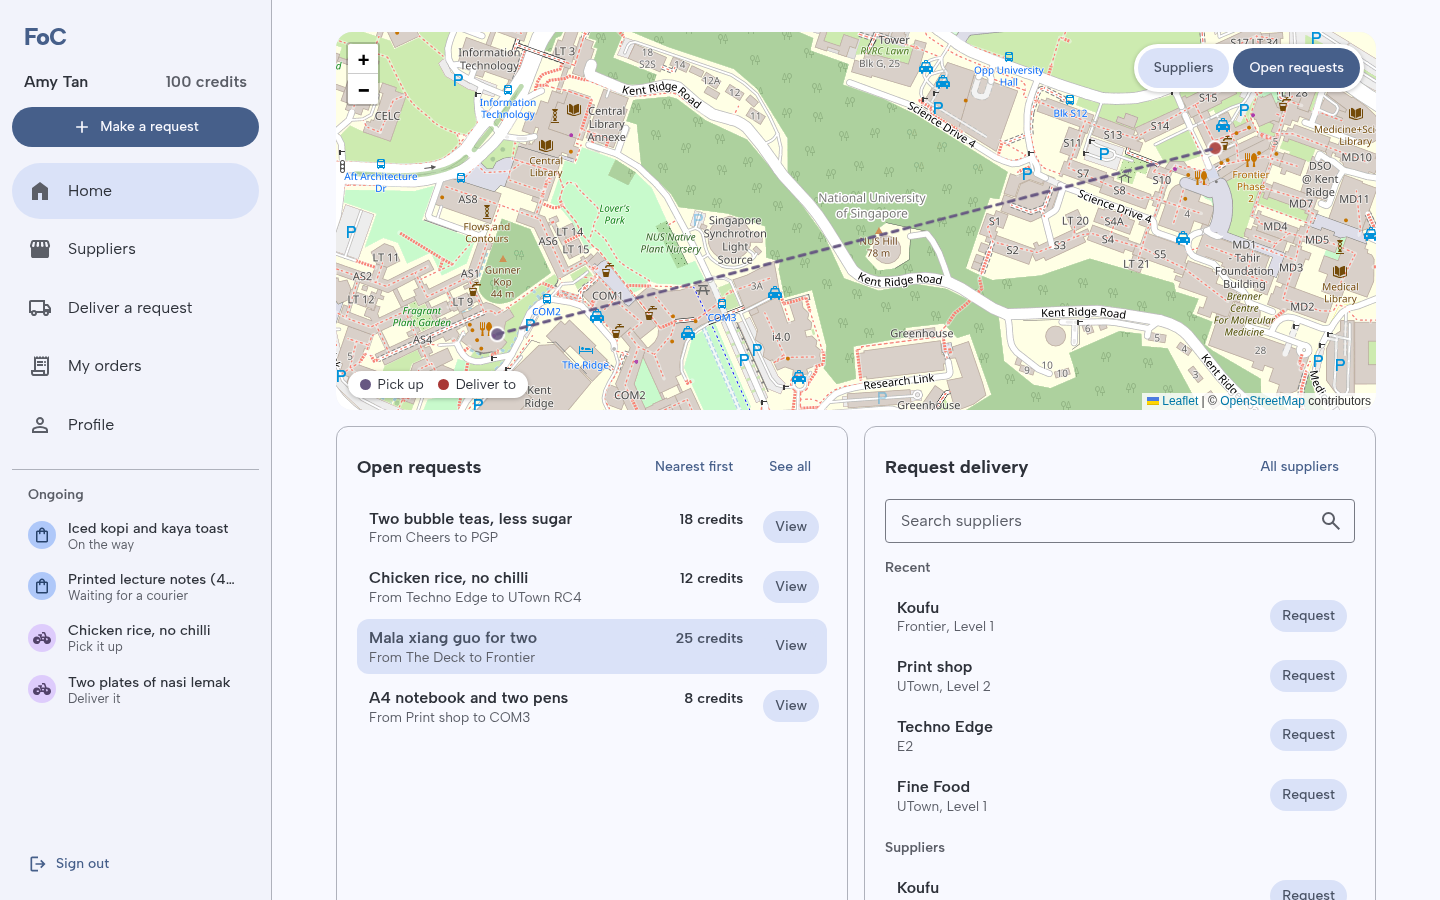
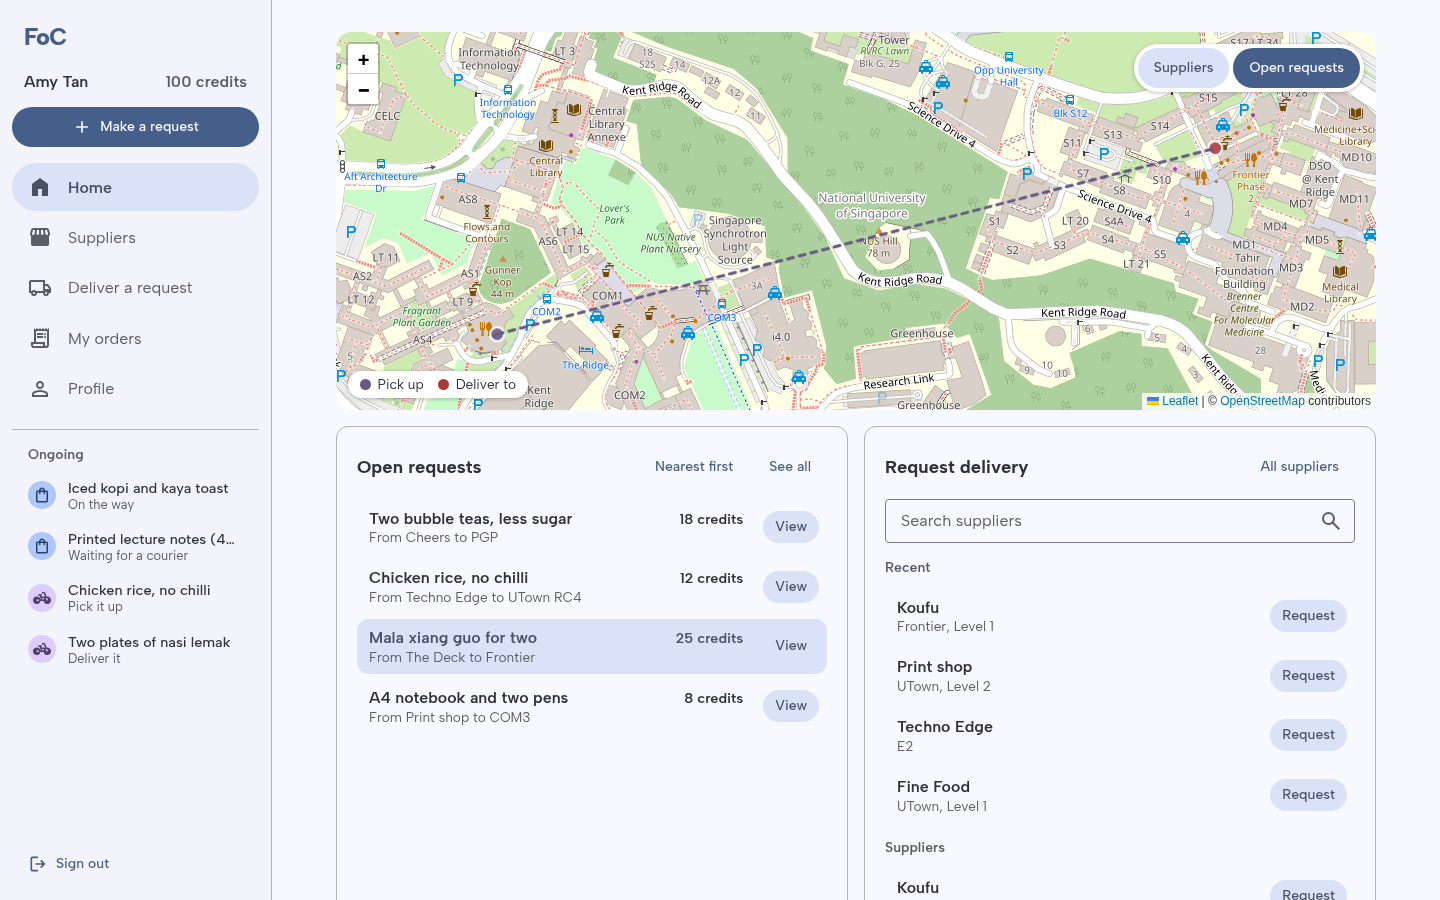
docs: refresh PR 241 screenshots and add real-stack captures

diff --git a/pr-241/README.md b/pr-241/README.md
@@ -1,0 +1,16 @@
+# PR #241 screenshots
+
+Refreshed on 4 November 2026.
+
+- `before-*`: baseline checkout `422bb11`, mocked Connect responses.
+- `after-*`: wireframe worktree based on `c18c582`, with the local onboarding,
+  login wordmark, drawer focus and proof-preservation changes. These local
+  implementation changes had not been pushed to the PR branch at capture time.
+- Before/after comparisons use the same mocked order and supplier fixtures.
+  Map tiles come only from an existing local cache; unavailable tiles are blocked.
+- `real-*`: actual Compose services, seeded development accounts/suppliers,
+  Mailpit and Floci. No live Telegram bot was configured. The late-payout image
+  precedes final proof submission; the completed order settled at 13 credits,
+  matching the frontend estimate at the eventual delivery time.
+
+The branch is screenshot hosting only and can be deleted after PR #241 merges.
